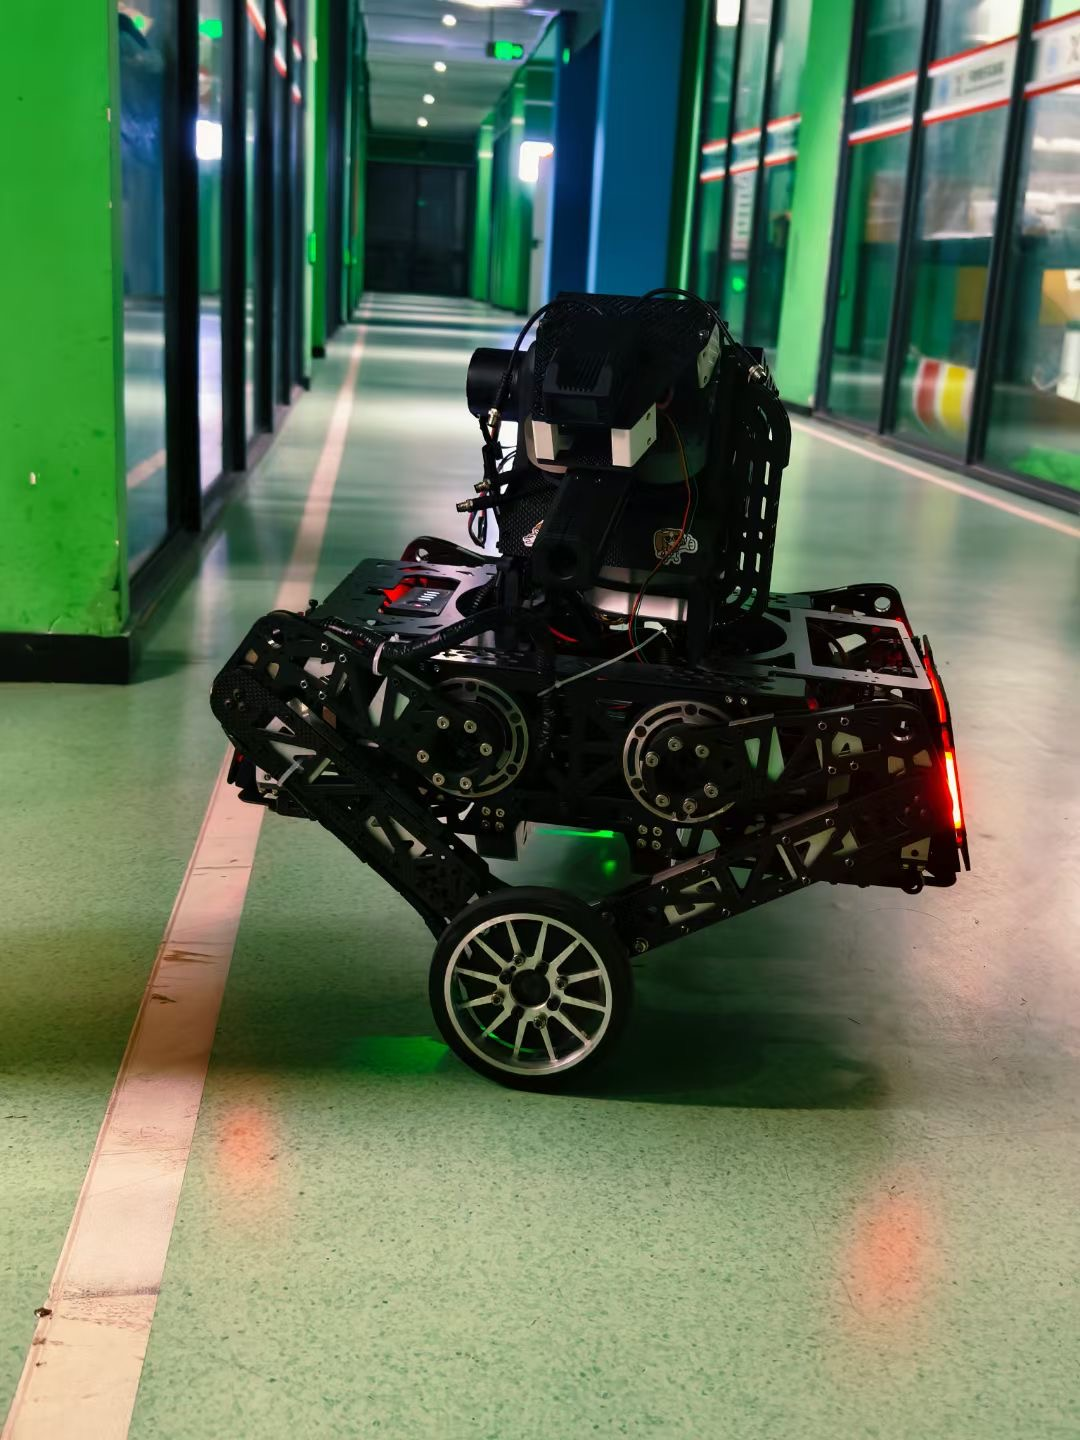
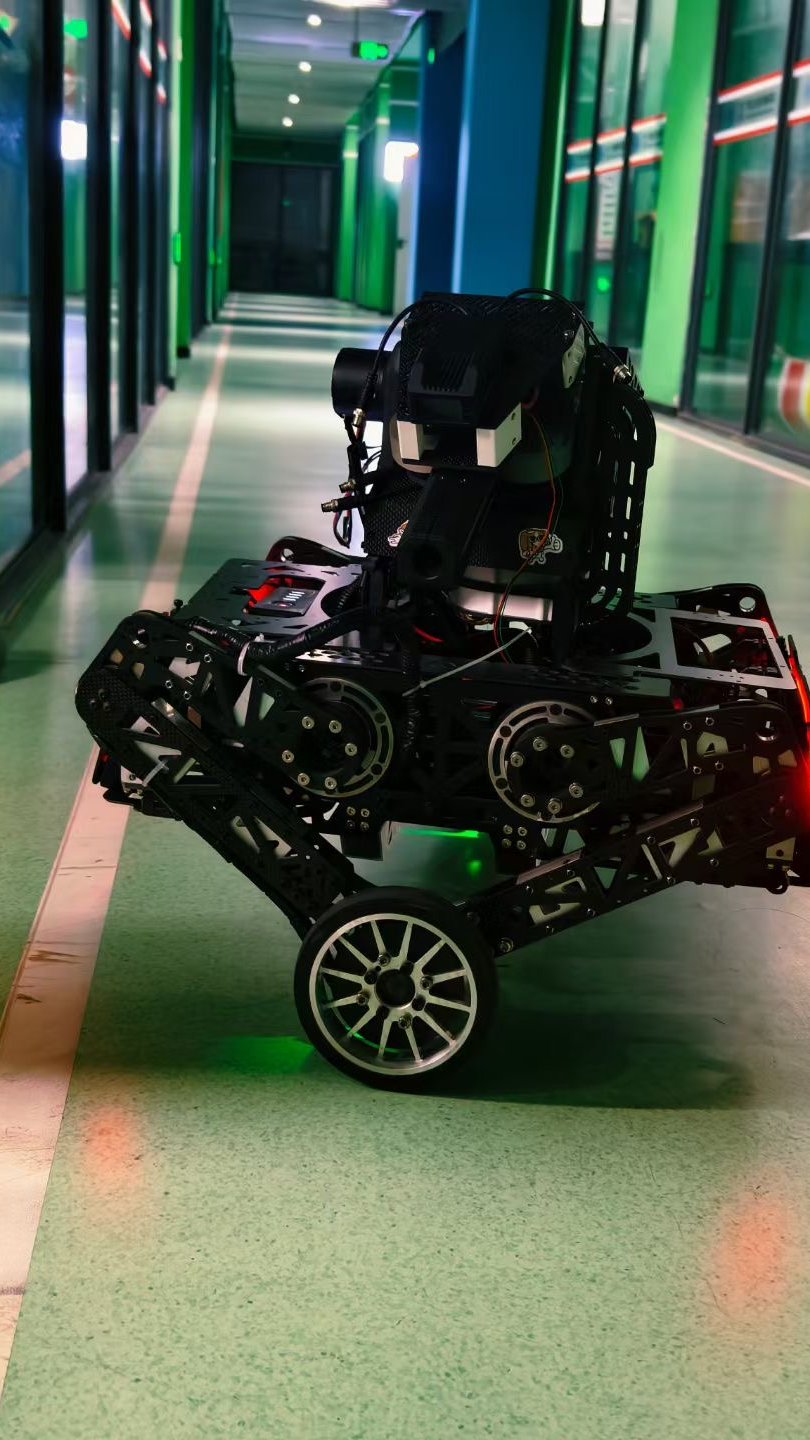
Crop 轮腿 to 810x1440, project-images 60%→42%

diff --git a/css/style.css b/css/style.css
@@ -139,7 +139,7 @@ a:hover {
 
 /* Images */
 .project-images {
-  flex: 0 0 60%;
+  flex: 0 0 42%;
   display: flex;
   flex-wrap: wrap;
   gap: 1rem;